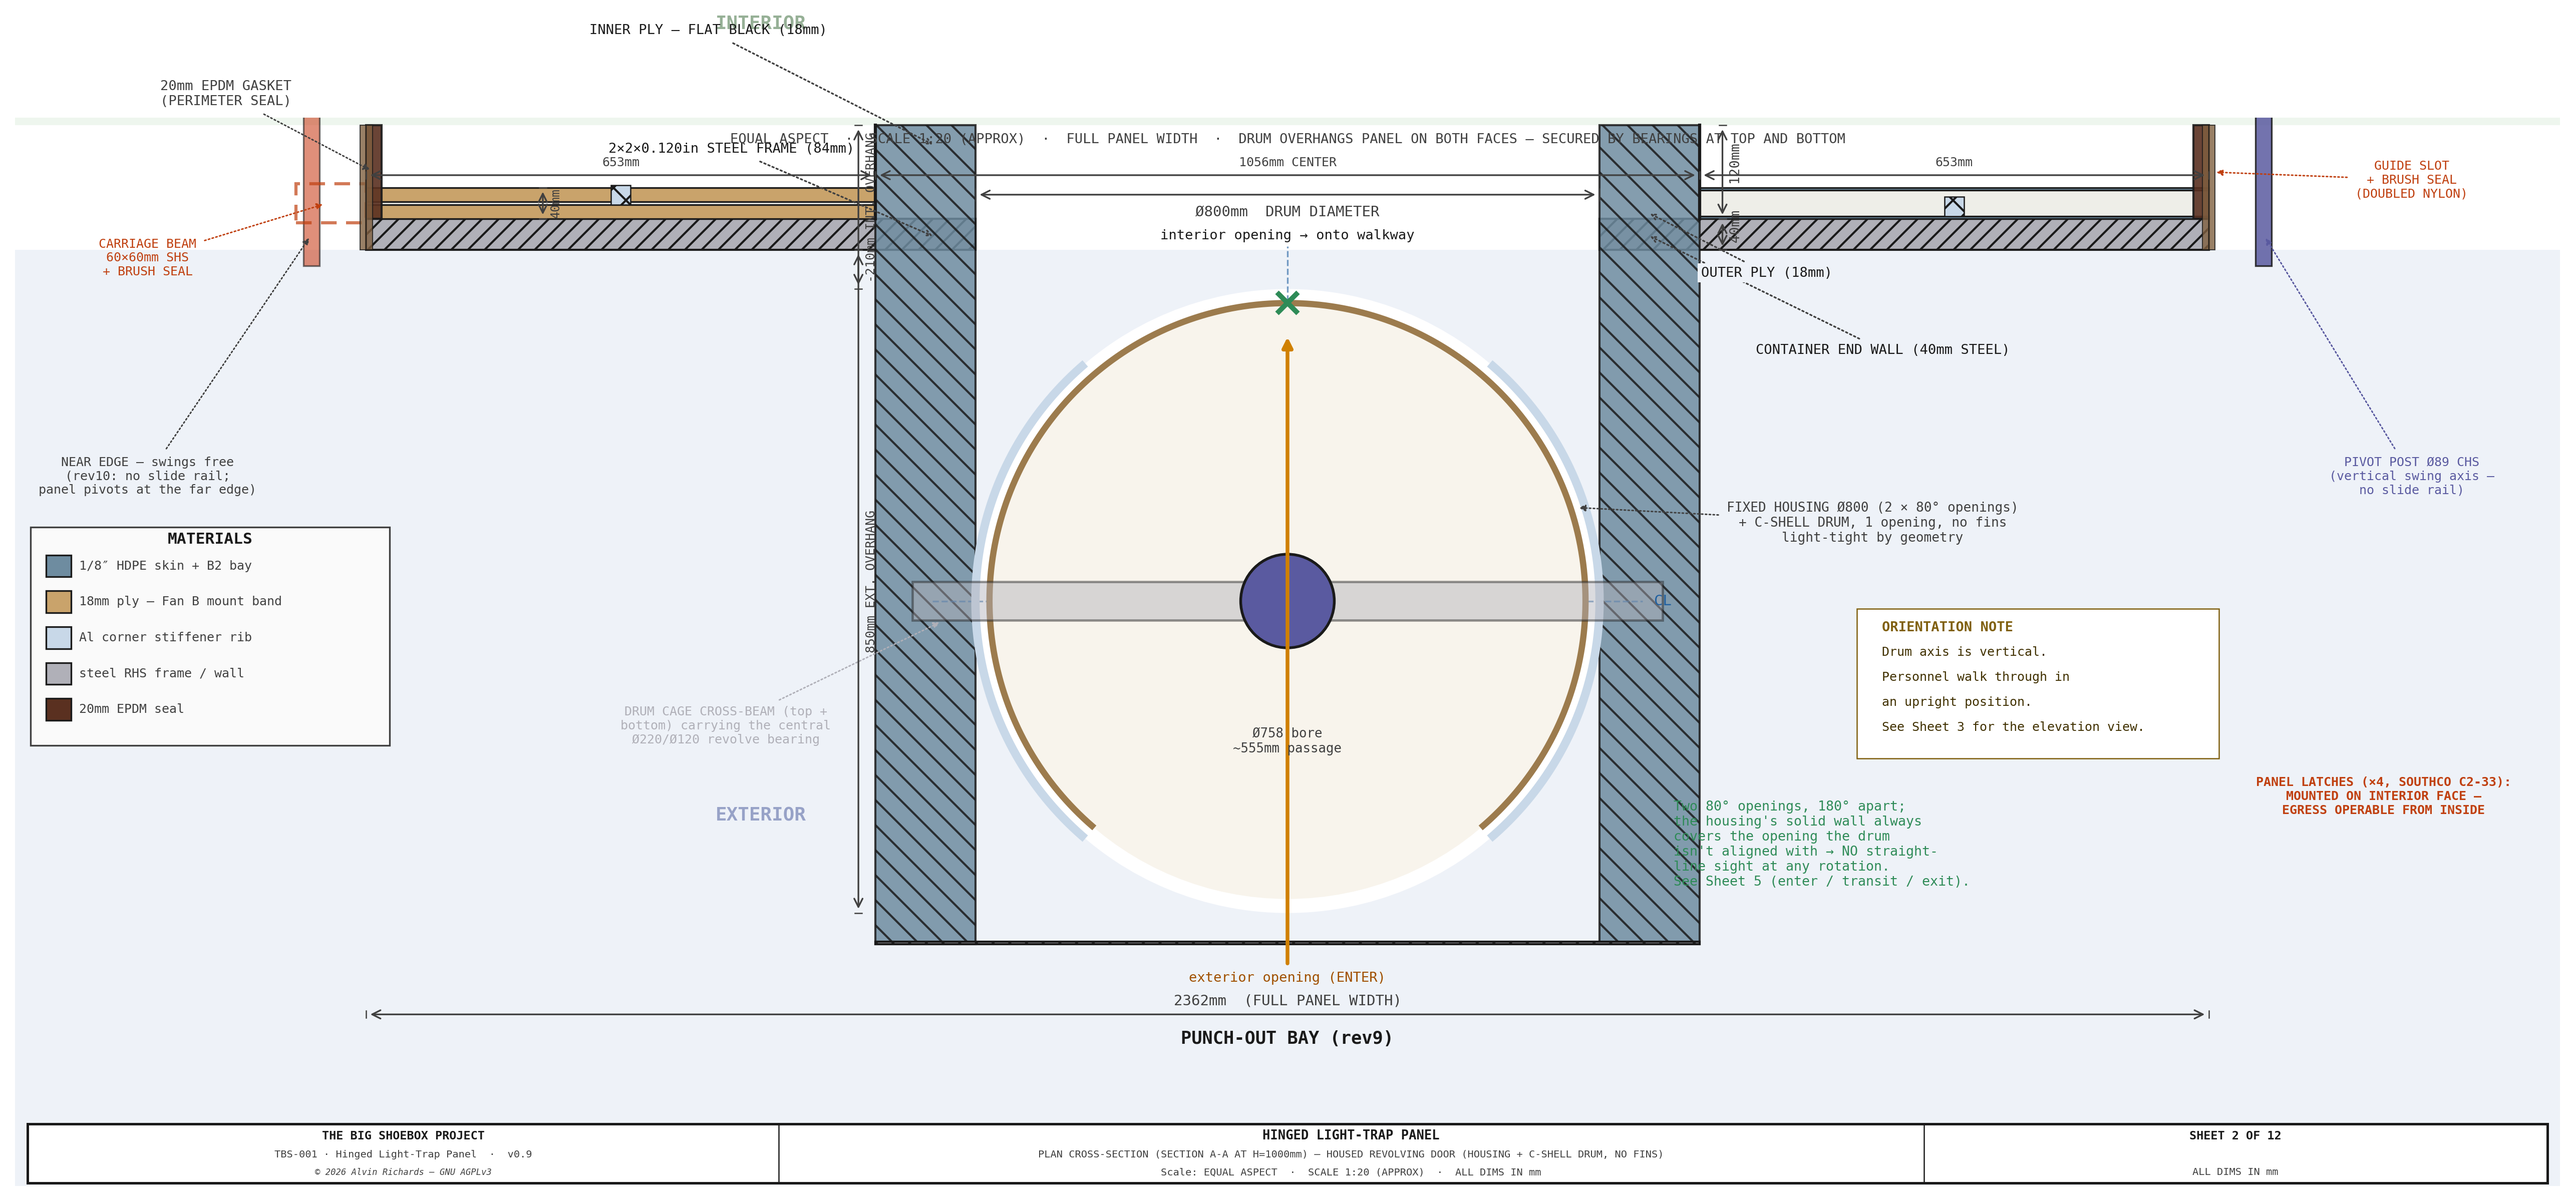
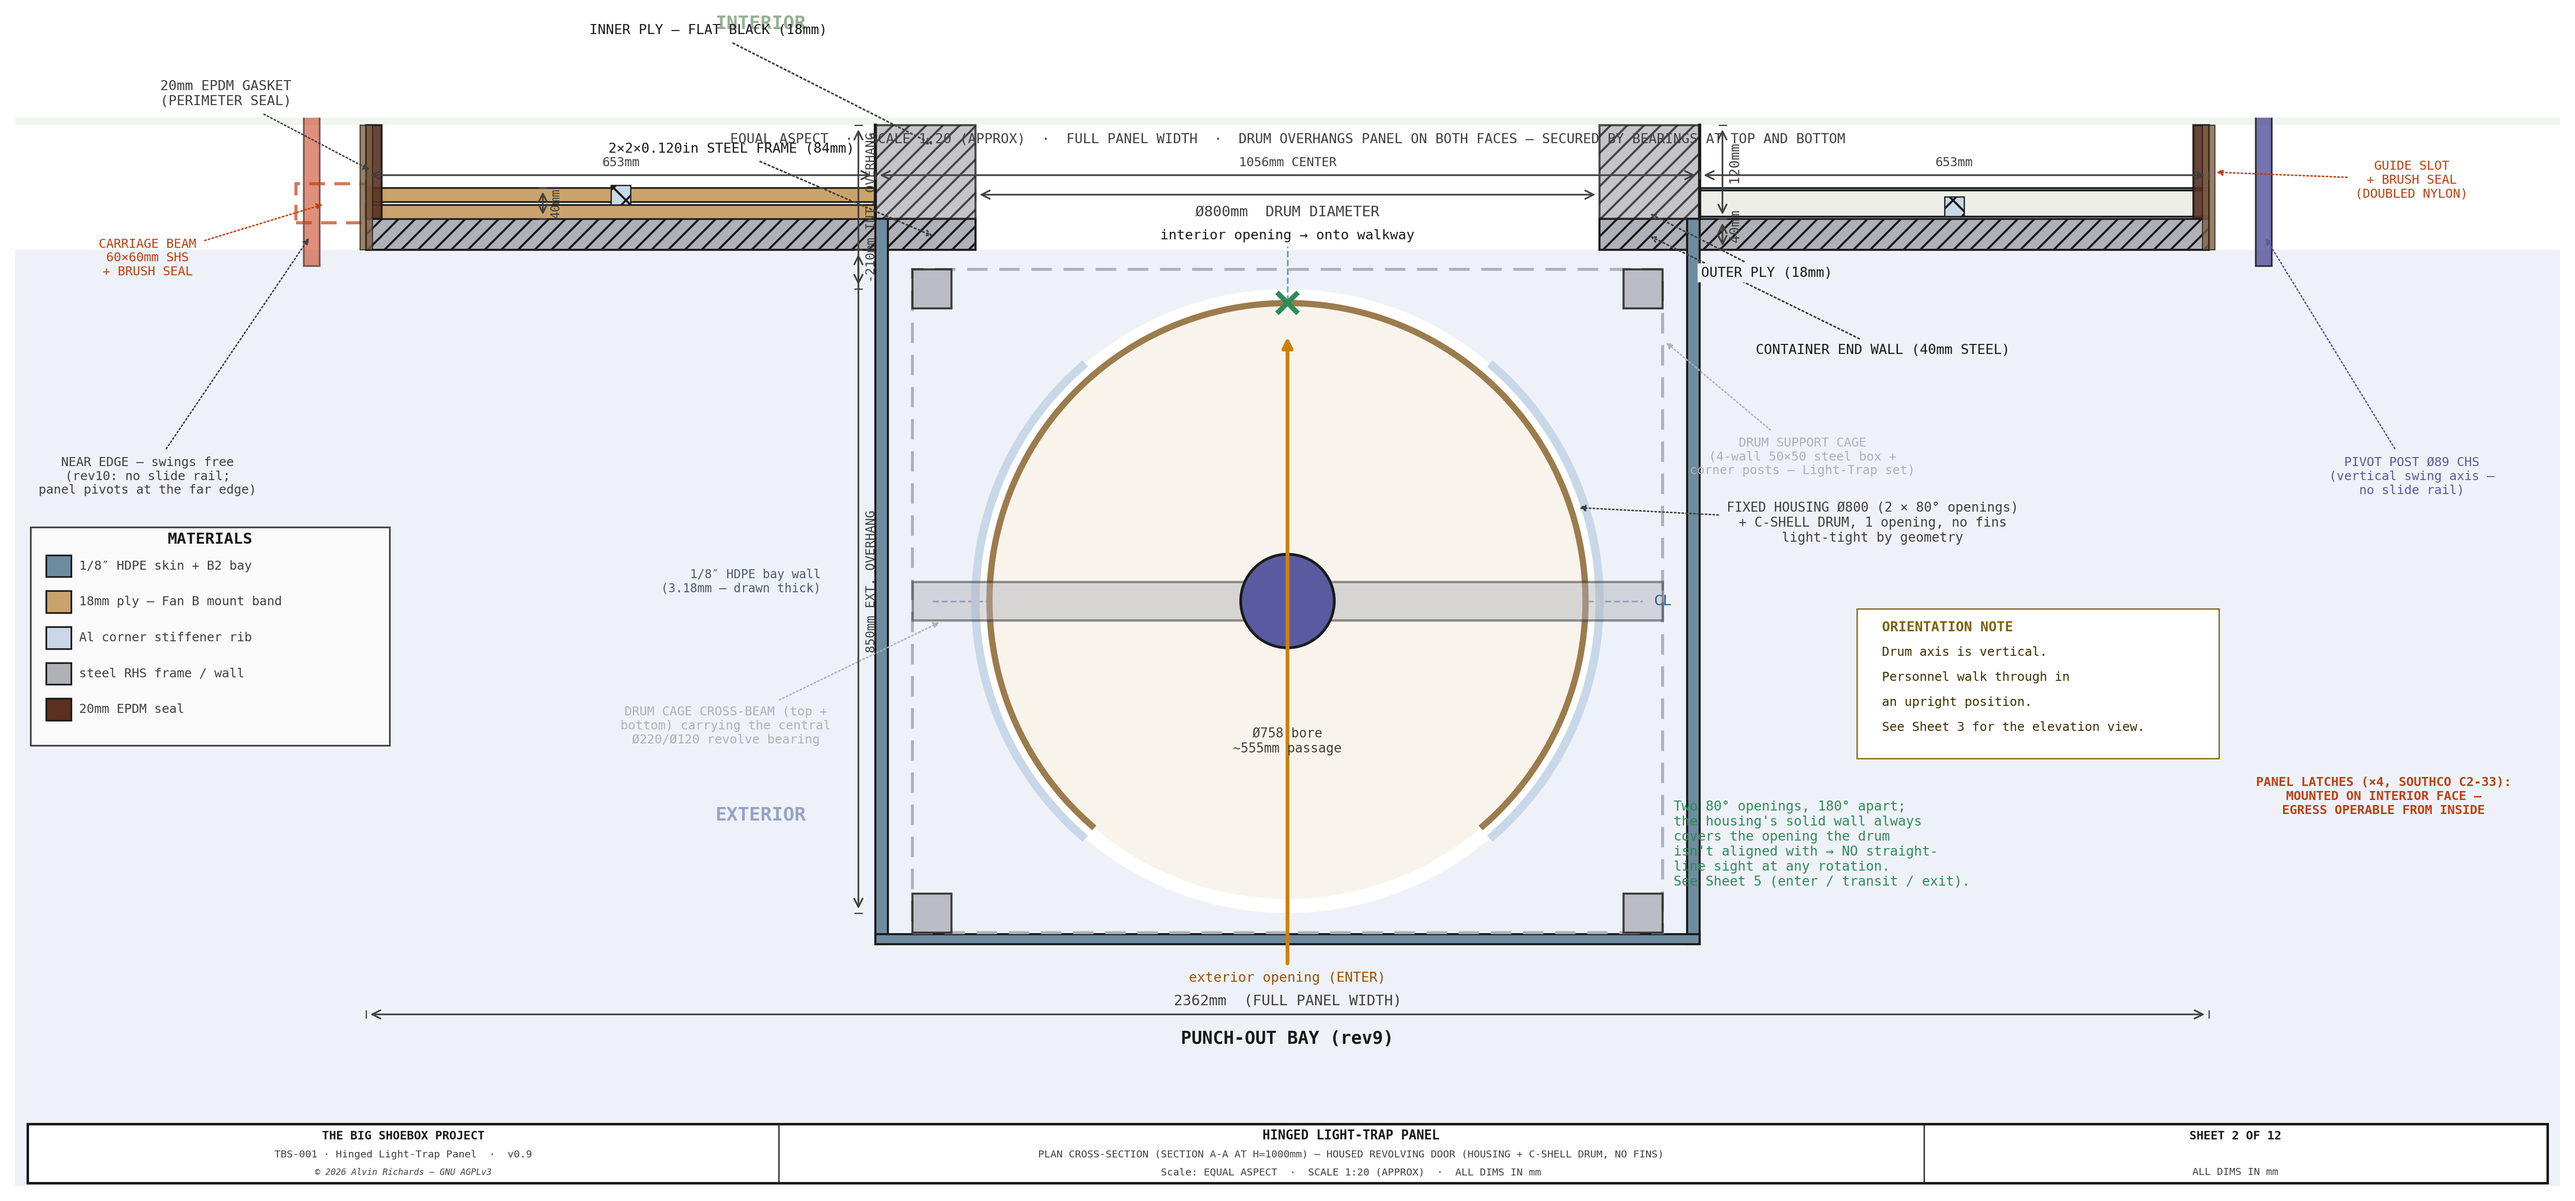
hingepanel Sheet 1+2 refinement: show drum cage + fix thick-HDPE→steel-jamb representation (Sheet 2); show handle mount beam (Sheet 1)

Changed region(s): [[0.3423, 0.0925, 0.7157, 0.802], [0.28, 0.4627, 0.3112, 0.4935]]

diff --git a/src/generators/generate_hingepanel_diagram.py b/src/generators/generate_hingepanel_diagram.py
@@ -292,6 +292,11 @@ def sheet1():
            (HXD - 380, HZD + 540),
            "INTERIOR PULL HANDLE (§4.3)\nbolted to the drum-aperture jamb (frame) —\npull the panel open from inside",
            col="#204080", fw="bold")
+    # the steel jamb beam the handle bolts to — shown so the mount beam is visible (cf. Sheet 6)
+    JX0 = PANEL_CORNER_YD_L + 6            # 659 — left center-zone jamb, behind the handle
+    ax.add_patch(Rectangle((JX0, HZD - HGL / 2 - 150), 40, HGL + 300, fc=C_STEEL, ec=C_OUT, lw=1.1, alpha=0.85, zorder=6))
+    leader(ax, (JX0 - 20, HZD - HGL / 2), (980, 640),
+           "2×2 STEEL JAMB —\nhandle bolts to steel,\nnot the skin (Sheet 6/9)", col=C_OUT, fs=6)
 
     # ── Outward-opening annotation ────────────────────────────────────────────
     # Panel hinges on left (X=0); right edge is the free edge.
@@ -455,14 +460,21 @@ def sheet2():
 
     # ── CENTER ZONE = B2 PUNCH-OUT BAY ───────────────────────────────────────
     # The center zone is a rigid box protruding forward (depth from the panel
-    # interior face Y_INT out to BAY_FRONT_X) that encloses the offset Ø800
-    # housing. Side walls run the bay depth; a front face closes the exterior end.
+    # interior face Y_INT out to BAY_FRONT_X) that encloses the offset Ø800 housing.
+    # The 128mm flank between the step line and the drum is the STEEL center-zone
+    # frame jamb (over the panel depth); the bay side walls are THIN 1/8″ HDPE at
+    # the step lines (drawn exaggerated for visibility — true wall = BAY_WALL_T 3.18mm).
     for x, w in [(STEP_YD_L, D_XL - STEP_YD_L), (D_XR, STEP_YD_R - D_XR)]:
-        ax.add_patch(Rectangle((x, BAY_FRONT_X), w, Y_INT - BAY_FRONT_X,
-                                fc=C_PLASTIC, ec=C_OUT, lw=1.0, hatch="\\\\",
-                                zorder=3, alpha=0.85))  # rev11: 1/8″ HDPE bay walls
-    ax.add_patch(Rectangle((STEP_YD_L, BAY_FRONT_X), STEP_YD_R - STEP_YD_L, BAY_WALL_T,
-                            fc=C_STEEL, ec=C_OUT, lw=1.0, hatch="///", zorder=4))
+        ax.add_patch(Rectangle((x, Y1_W), w, Y_INT - Y1_W,                  # steel frame jamb (panel depth)
+                                fc=C_STEEL, ec=C_OUT, lw=1.0, hatch="///", zorder=3, alpha=0.75))
+    BWALL = 16                                                              # bay-wall drawn thickness (true 3.18mm)
+    for xw in (STEP_YD_L, STEP_YD_R - BWALL):                                # thin HDPE bay side walls (exterior bay)
+        ax.add_patch(Rectangle((xw, BAY_FRONT_X), BWALL, Y1_W - BAY_FRONT_X,
+                                fc=C_PLASTIC, ec=C_OUT, lw=1.0, zorder=4))
+    ax.add_patch(Rectangle((STEP_YD_L, BAY_FRONT_X), STEP_YD_R - STEP_YD_L, BAY_WALL_T * 4,  # bay front wall (exterior end)
+                            fc=C_PLASTIC, ec=C_OUT, lw=1.0, zorder=4))
+    ax.text(STEP_YD_L - 70, (BAY_FRONT_X + Y1_W) / 2, "1/8″ HDPE bay wall\n(3.18mm — drawn thick)",
+            ha="right", va="center", fontsize=5.8, color="#4a5a70", **FONT, zorder=15)
     ax.text((STEP_YD_L + STEP_YD_R) / 2, BAY_FRONT_X - 110, "PUNCH-OUT BAY (rev9)",
             color=C_OUT, fontsize=8.5, ha="center", va="top", **FONT,
             fontweight="bold", zorder=15)
@@ -608,9 +620,17 @@ def sheet2():
     _arc(D_CX, D_CY, DR, [(90, OD), (270, OD)], 4.0, C_ALUM, z=9)      # fixed Al housing
     _arc(D_CX, D_CY, LT_DRUM_OR, [(270, OD)], 3.0, "#9C7B4D", z=10)      # C-shell drum (ENTER)
 
-    # ── Drum support CAGE cross-beam (across the drum) carrying the central revolve
-    #    bearing — top + bottom (rev10). Shown as a bar spanning the cage width. ──
+    # ── Drum support CAGE — full 4-wall steel box around the drum (corner posts +
+    #    perimeter rails) + the cross-beam carrying the central revolve bearing. ──
     from tbs_constants import DRUM_CAGE_YD_L as _CGL, DRUM_CAGE_YD_R as _CGR
+    cage_yb, cage_yt = D_YB - 25, D_YT + 25                       # cage depth envelope (just outside the drum)
+    ax.add_patch(Rectangle((_CGL, cage_yb), _CGR - _CGL, cage_yt - cage_yb,
+                           fc="none", ec=C_STEEL, lw=1.4, ls=(0, (7, 4)), zorder=10))   # cage box outline
+    for cxp in (_CGL, _CGR - 50):                                 # 4 corner posts (50×50 RHS)
+        for cyp in (cage_yb, cage_yt - 50):
+            ax.add_patch(Rectangle((cxp, cyp), 50, 50, fc=C_STEEL, ec=C_OUT, lw=1.0, alpha=0.8, zorder=11))
+    leader(ax, (_CGR, cage_yt - 90), (D_XR + 260, cage_yt - 240),
+           "DRUM SUPPORT CAGE\n(4-wall 50×50 steel box +\ncorner posts — Light-Trap set)", col=C_STEEL, fs=6)
     cb_t = 50
     ax.add_patch(Rectangle((_CGL, D_CY - cb_t / 2), _CGR - _CGL, cb_t,
                            fc=C_STEEL, ec=C_OUT, lw=1.1, alpha=0.45, zorder=11))
